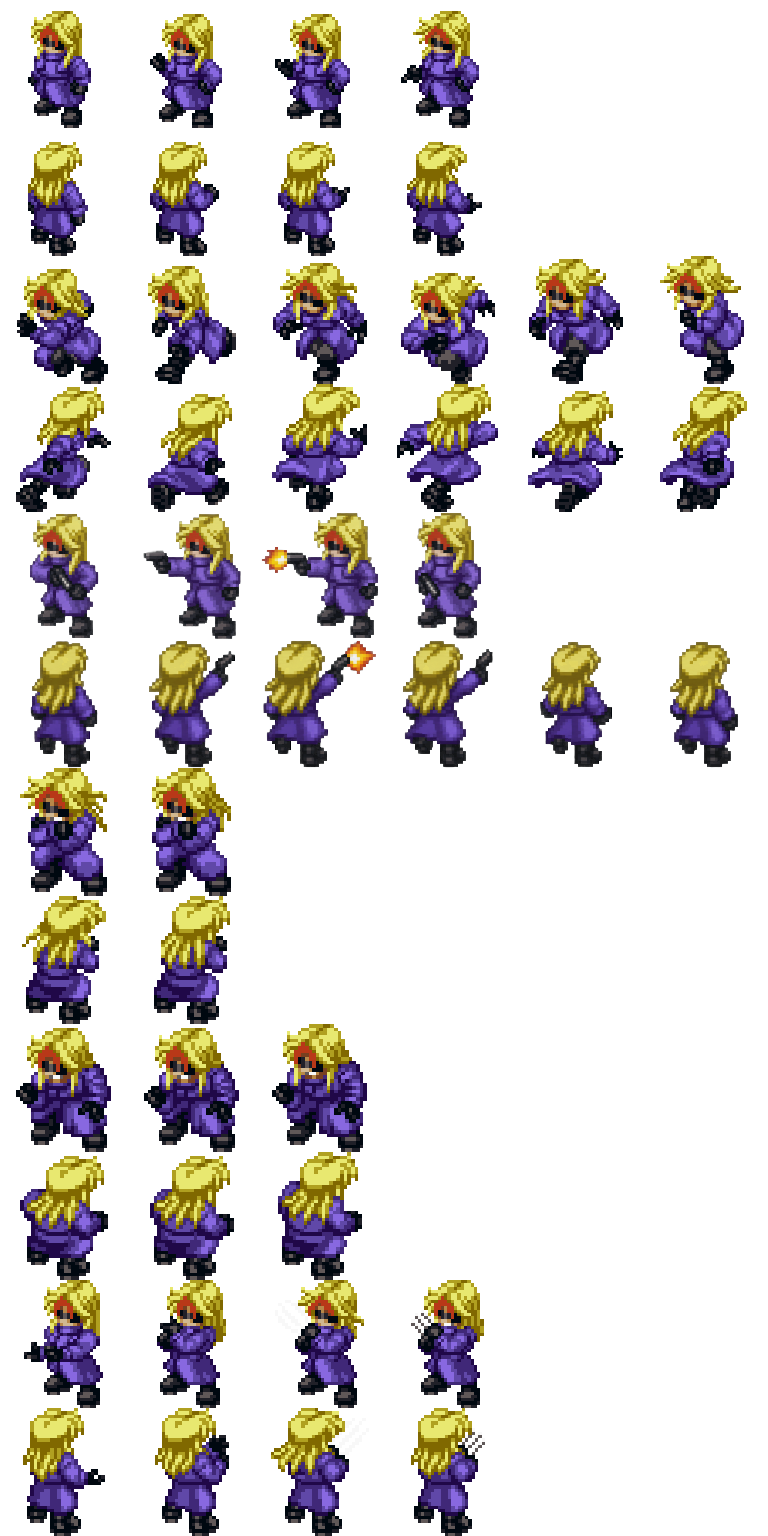
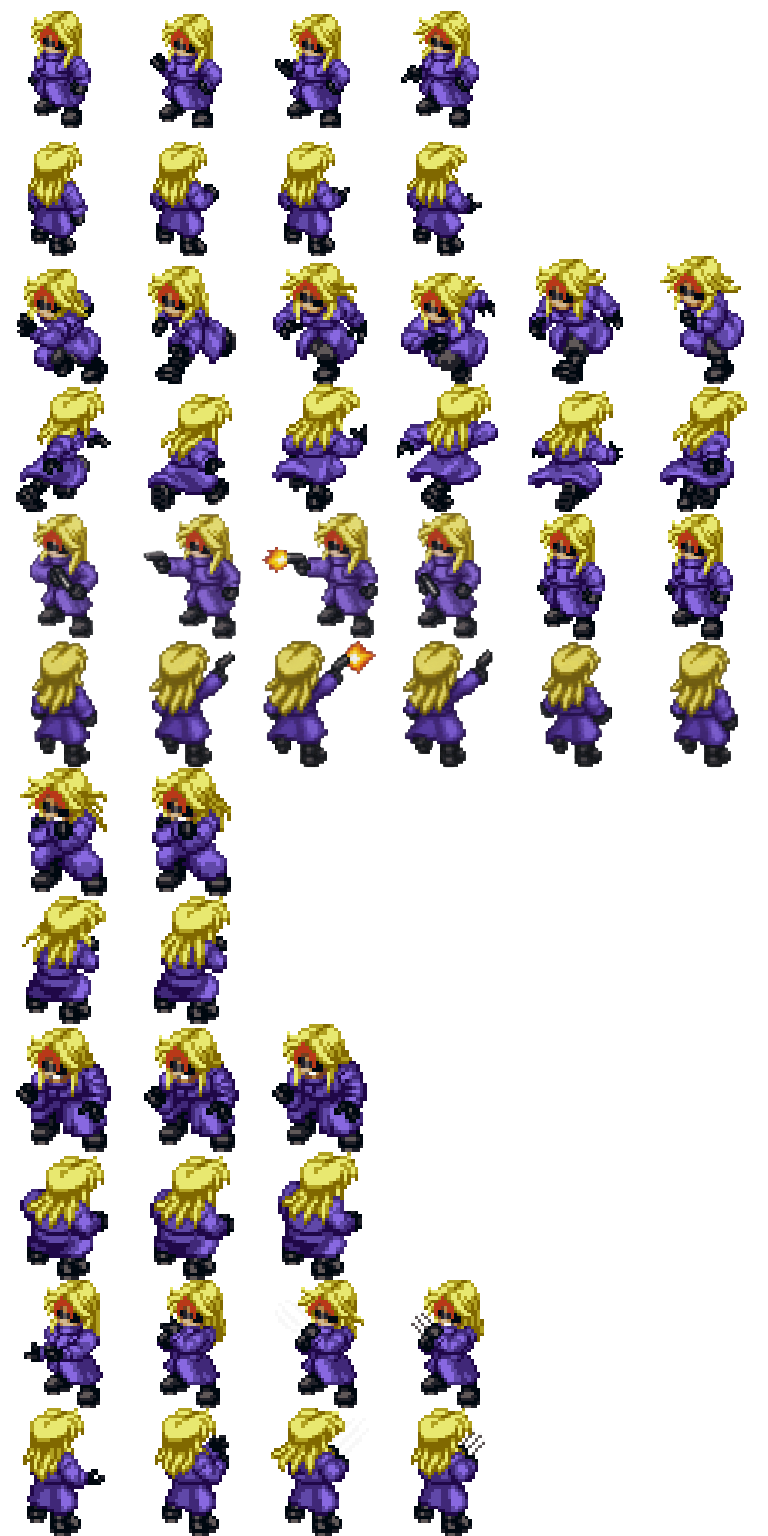
fix attack sprite frame count, add defend on attack anim

Changed region(s): [[0.875, 0.3125, 0.9688, 0.4375], [0.6875, 0.3125, 0.7812, 0.4375]]

diff --git a/client/src/ui/overlay/BattleOverlay.ts b/client/src/ui/overlay/BattleOverlay.ts
@@ -1279,6 +1279,7 @@ export class BattleOverlay implements Overlay {
 					this.defenderTile(),
 					this.attackerBaseFacing,
 					applyAttackerDamage,
+					() => void this.defenderSprite?.play("defend"),
 				);
 				await this.playMeleeStrike(
 					this.defenderTokenView,
@@ -1287,6 +1288,7 @@ export class BattleOverlay implements Overlay {
 					this.attackerTile(),
 					this.defenderBaseFacing,
 					applyDefenderDamage,
+					() => void this.attackerSprite?.play("defend"),
 				);
 			} else {
 				await this.playMeleeStrike(
@@ -1296,6 +1298,7 @@ export class BattleOverlay implements Overlay {
 					this.attackerTile(),
 					this.defenderBaseFacing,
 					applyDefenderDamage,
+					() => void this.attackerSprite?.play("defend"),
 				);
 				await this.playMeleeStrike(
 					this.attackerTokenView,
@@ -1304,6 +1307,7 @@ export class BattleOverlay implements Overlay {
 					this.defenderTile(),
 					this.attackerBaseFacing,
 					applyAttackerDamage,
+					() => void this.defenderSprite?.play("defend"),
 				);
 			}
 		} else if (

diff --git a/client/src/manifests/brawler.ts b/client/src/manifests/brawler.ts
@@ -59,10 +59,15 @@ export const brawlerSprite: CharacterSpriteManifest = {
 			fps: 12,
 		},
 		attack: {
-			frames: 5,
+			frames: 6,
 			loop: false,
-			// ready → anticipation → STRIKE → follow → recover
-			durations: [100, 90, 45, 70, 120],
+			// draw -> aim -> fire -> recover -> settle -> settle. The last
+			// two are idle's own first frame, appended so the animation
+			// eases back to neutral instead of cutting off abruptly at
+			// frame 4 (the "flash" reported earlier). Also lets ne use
+			// all 6 of its own real frames now, previously capped at 4
+			// to match sw's old, shorter count.
+			durations: [180, 160, 140, 180, 150, 150],
 		},
 		hit: {
 			frames: 3,
@@ -70,7 +75,7 @@ export const brawlerSprite: CharacterSpriteManifest = {
 			durations: [60, 100, 120],
 		},
 		stunned: {
-			frames: 3,
+			frames: 2,
 			loop: true,
 			fps: 4,
 		},
